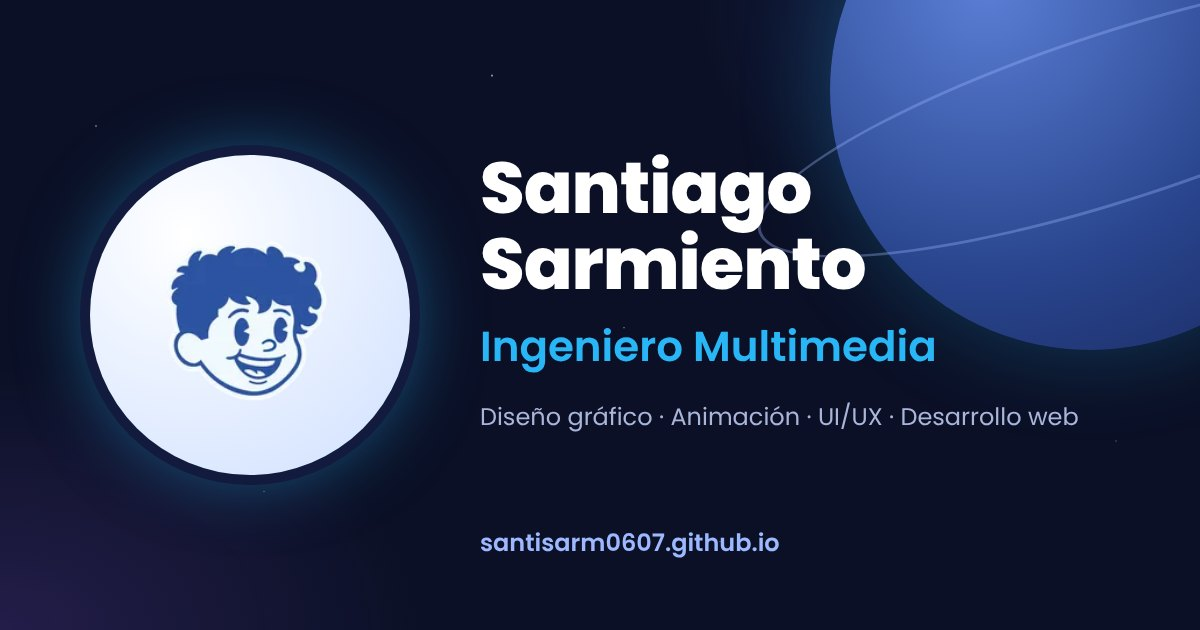
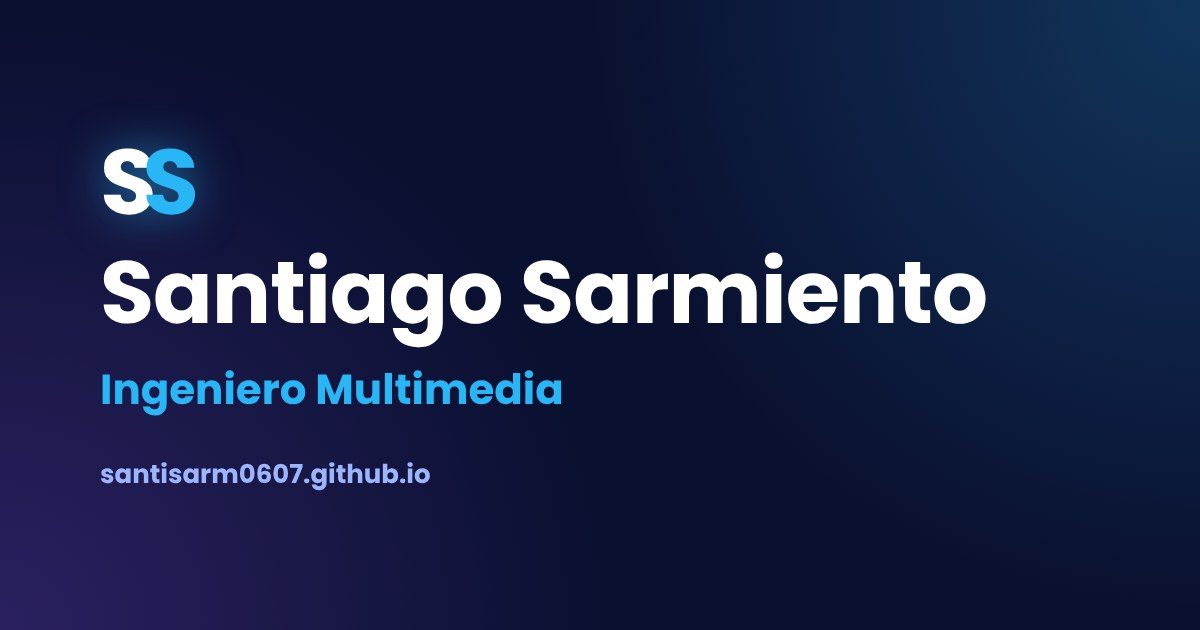
Nueva imagen para compartir el enlace (SS, sin muñequito ni planeta)
Claude-Session: https://claude.ai/code/session_011Fptt8uDgw37aLnXWMqnLc

diff --git a/NOTAS.md b/NOTAS.md
@@ -445,3 +445,6 @@ Accesibilidad:
 - Para cambiar un nivel: `style="--nivel:85%"` del botón en `index.html`. "Perfil innprendedor" se escribe así a propósito.
 - Se borró el código de la constelación (HTML, JS en `efectos.js` y CSS 14f). Queda CSS viejo `.orbita*` sin uso (no estorba).
 - Niveles reales (los dio Santiago): Branding 85, Publicidad 75, Animación 60, Ilustración 55, Fotografía digital 55, UI/UX 50, Modelado 3D 50, Desarrollo Web 50. Se quitaron Diseño Gráfico y Perfil innprendedor. Love Market y Trío Amoroso se hacen aparte de la universidad (así lo dice el Trayecto).
+
+## Imagen al compartir el enlace
+- `img/og-portada.jpg` (1200x630) rehecha: logo SS, nombre, "Ingeniero Multimedia" y la dirección, sin el muñequito ni el planeta. WhatsApp/LinkedIn guardan la vieja un tiempo.
